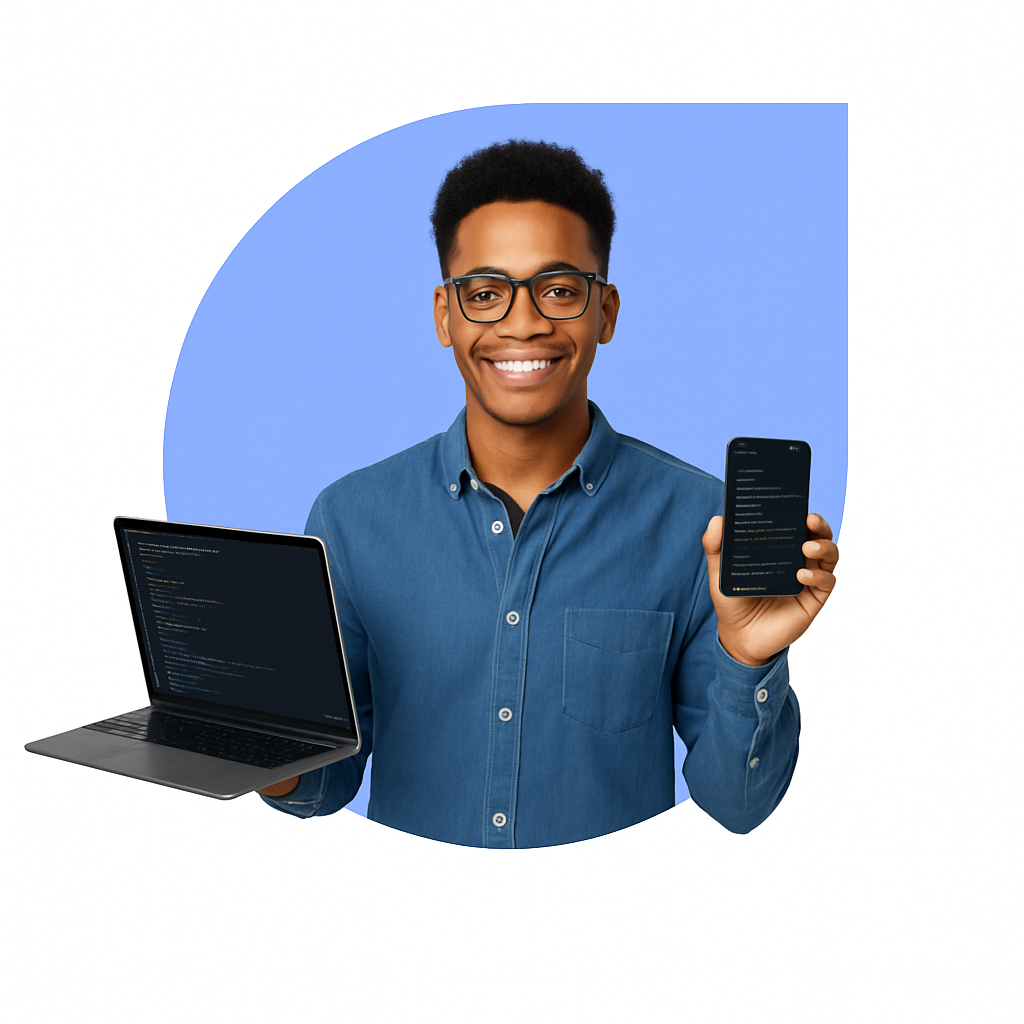
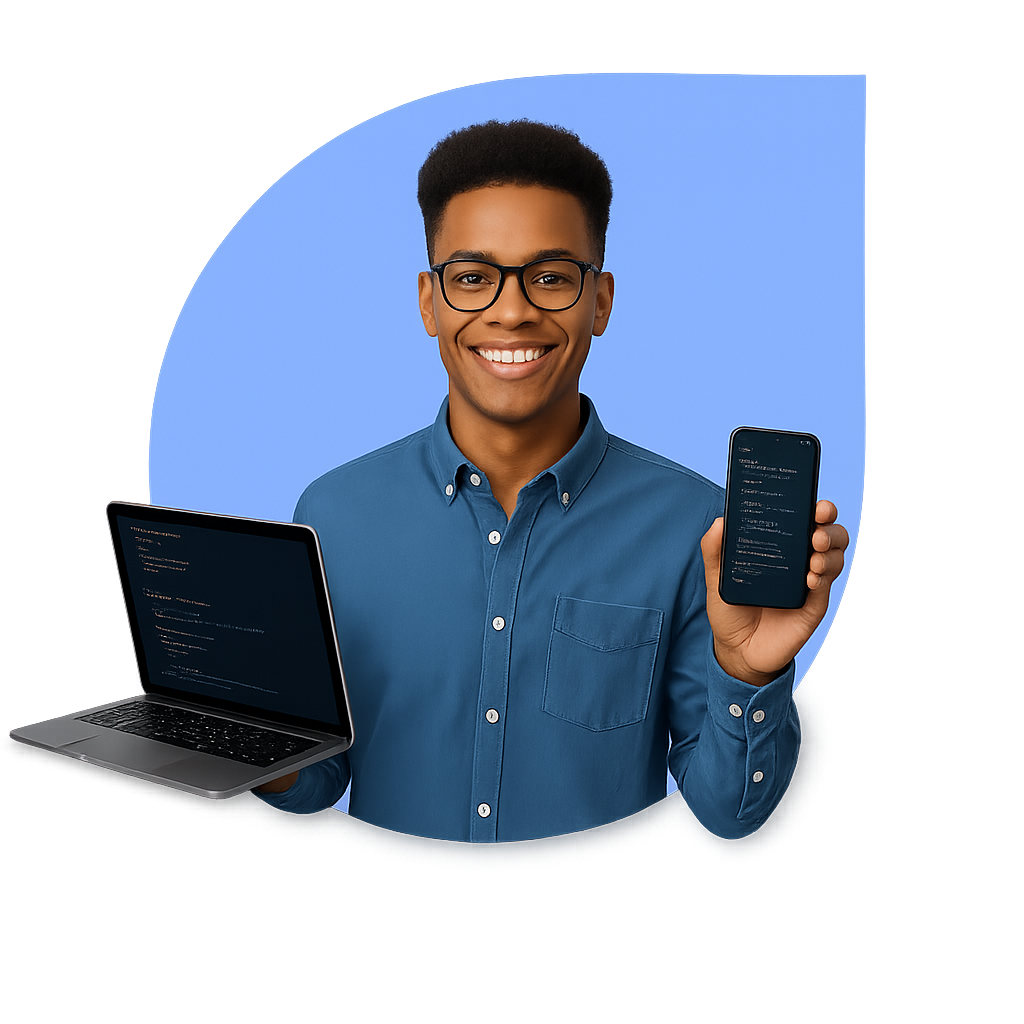
Added user page after signin and added user header

Changed region(s): [[0.0, 0.0625, 0.8438, 0.8438]]

diff --git a/src/components/UserLayout/Header/index.jsx b/src/components/UserLayout/Header/index.jsx
@@ -1,21 +1,17 @@
 import React, { useState, useRef, useEffect } from "react";
 import { Icon } from "@iconify/react";
 import { Link } from 'react-router-dom';
-import HeaderLink from './Navigation/HeaderLink';
+import HeaderLink from '../../Layout/Header/Navigation/HeaderLink';
 import { headerData } from "./Navigation/MenuData";
 import Logo from '../../Common/Logo'
-import Signin from "../../../pages/Auth/SignIn";
-import SignUp from "../../../pages/Auth/SignUp";
 
 const navItems = ["Home", "About Us", "Categories", "Courses"];
 
 const Header = () => {
   const [navbarOpen, setNavbarOpen] = useState(false);
   const mobileMenuRef = useRef(null);
-  const [isSignInOpen, setIsSignInOpen] = useState(false);
-  const signInRef = useRef(null);
-  const [isSignUpOpen, setIsSignUpOpen] = useState(false);
-  const signUpRef = useRef(null);
+  const [profileOpen, setProfileOpen] = useState(false);
+  const profileRef = useRef(null);
   const [sticky, setSticky] = useState(false);
 
   const handleClickOutside = (event) => {
@@ -25,7 +21,15 @@ const Header = () => {
     ) {
       setNavbarOpen(false);
     }
+  
+    if (
+      profileRef.current &&
+      !profileRef.current.contains(event.target)
+    ) {
+      setProfileOpen(false);
+    }
   };
+  
 
   const handleScroll = () => {
     setSticky(window.scrollY >= 20);
@@ -44,7 +48,7 @@ const Header = () => {
       window.removeEventListener("scroll", handleScroll);
       document.removeEventListener("mousedown", handleClickOutside);
     };
-  }, [navbarOpen, isSignInOpen, isSignUpOpen]);
+  }, [navbarOpen]);
 
   return (
     <header className={`fixed top-0 z-40 w-full transition-all duration-300 ${sticky ? " shadow-lg bg-white dark:bg-gray-600 py-4" : "shadow-none py-8"
@@ -70,63 +74,9 @@ const Header = () => {
               />
               +1(909) 235-9814
             </Link>
-            <button
-        className="hidden lg:block text-primaryPurple bg-lightPurple hover:text-white hover:bg-primaryPurple font-medium text-lg py-4 px-8 rounded-full"
-        onClick={() => setIsSignInOpen(true)}
-      >
-        Sign In
-      </button>
+ 
 
-      {isSignInOpen && (
-        <div className="fixed top-0 left-0 w-full h-full bg-black bg-opacity-50 flex items-center justify-center z-50">
-          <div
-            ref={signInRef}
-            className="relative mx-auto w-full max-w-md overflow-hidden rounded-lg px-8 pt-14 pb-8 text-center bg-white dark:bg-gray-600 bg-opacity-90 backdrop-blur-md"
-          >
-            <button
-              onClick={() => setIsSignInOpen(false)}
-              className="absolute top-0 right-0 mr-8 mt-8 dark:invert"
-              aria-label="Close Sign In Modal"
-            >
-              <Icon
-                icon="tabler:currency-xrp"
-                className="text-black hover:text-primary text-24 inline-block me-2"
-              />
-            </button>
-
-            <Signin setShowSignin={() => setIsSignInOpen(false)}/>
-          </div>
-        </div>
-      )}
-                <button
-        className="hidden lg:block bg-primaryPurple text-white hover:bg-lightPurple hover:text-primaryPurple font-medium text-lg py-4 px-8 rounded-full"
-        onClick={() => setIsSignUpOpen(true)}
-      >
-        Sign Up
-      </button>
-
-      {isSignUpOpen && (
-        <div className="fixed top-0 left-0 w-full h-full bg-black bg-opacity-50 flex items-center justify-center z-50">
-          <div
-            ref={signUpRef}
-            className="relative mx-auto w-full max-w-md overflow-hidden rounded-lg bg-dark_grey bg-opacity-90 backdrop-blur-md px-8 pt-14 pb-8 text-center"
-          >
-            <button
-              onClick={() => setIsSignUpOpen(false)}
-              className="absolute top-0 right-0 mr-8 mt-8 dark:invert"
-              aria-label="Close Sign Up Modal"
-            >
-              <Icon
-                icon="tabler:currency-xrp"
-                className="text-white hover:text-primary text-24 inline-block me-2"
-              />
-            </button>
-
-            <SignUp />
-          </div>
-        </div>
-      )}
-
+      
 
             {/* Mobile Menu Toggle */}
             <button
@@ -139,6 +89,41 @@ const Header = () => {
               <span className="block w-6 h-0.5 bg-black mt-1.5"></span>
             </button>
           </div>
+
+          <div className="relative" ref={profileRef}>
+  <button
+    onClick={() => setProfileOpen(!profileOpen)}
+    className="p-2 rounded-full hover:bg-gray-100 focus:outline-none focus:ring-2 focus:ring-primary"
+  >
+    <Icon icon="mdi:account-circle" className="text-3xl text-gray-700" />
+  </button>
+
+  {profileOpen && (
+    <div className="absolute right-0 mt-2 w-48 bg-white border border-gray-200 rounded-md shadow-lg z-50">
+      <Link
+        to="/edit-profile"
+        className="block px-4 py-2 text-sm text-gray-700 hover:bg-gray-100"
+      >
+        ✏ Edit Profile
+      </Link>
+      <Link
+        to="/settings"
+        className="block px-4 py-2 text-sm text-gray-700 hover:bg-gray-100"
+      >
+        ⚙ Settings
+      </Link>
+      <button
+        onClick={() => {
+          console.log("Sign out clicked");
+        }}
+        className="w-full text-left px-4 py-2 text-sm text-gray-700 hover:bg-red-100 hover:text-red-600"
+      >
+        🚪 Sign Out
+      </button>
+    </div>
+  )}
+</div>
+
         </div>
 
         {/* Mobile Nav */}
@@ -162,19 +147,7 @@ const Header = () => {
               >
                 {item}
               </span>
-            ))}
-            <button
-              className="w-full px-4 py-2 rounded-lg bg-lightPurple text-primaryPurple font-medium hover:bg-red-200 transition"
-              onClick={() => setNavbarOpen(false)}
-            >
-              Sign In
-            </button>
-            <button
-              className="w-full px-4 py-2 rounded-lg bg-primaryPurple text-white font-medium hover:bg-red-600 transition"
-              onClick={() => setNavbarOpen(false)}
-            >
-              Sign Up
-            </button>
+            ))}       
           </nav>
         </div>
 

diff --git a/src/pages/Auth/SignIn/index.jsx b/src/pages/Auth/SignIn/index.jsx
@@ -5,7 +5,7 @@ import SocialSignIn from "../SocialSignIn";
 import Logo from "../../../components/Common/Logo";
 import Loader from "../../../components/Common/Loader";
 
-const Signin = () => {
+const Signin = ({ setShowSignin }) => {
   const navigate = useNavigate();
 
   const [loginData, setLoginData] = useState({
@@ -18,34 +18,64 @@ const Signin = () => {
   const loginUser = async (e) => {
     e.preventDefault();
     setLoading(true);
-
-    // Example login API (replace this with your backend logic)
-    try {
-      const response = await fetch("/api/login", {
-        method: "POST",
-        headers: {
-          "Content-Type": "application/json",
-        },
-        body: JSON.stringify(loginData),
-      });
-
-      const result = await response.json();
-
-      if (!response.ok) {
-        toast.error(result.message || "Login failed");
-        setLoading(false);
-        return;
-      }
-
-      toast.success("Login successful");
+  
+    const { email, password } = loginData;
+  
+    const emailRegex = /^[^\s@]+@[^\s@]+\.[^\s@]+$/;
+    const passwordRegex =
+      /^(?=.*[A-Z])(?=.*\d)(?=.*[!@#$%^&*()_+\-=\[\]{};':"\\|,.<>\/?]).{8,}$/;
+  
+    if (!emailRegex.test(email)) {
+      toast.error("Invalid email format");
       setLoading(false);
-      navigate("/");
-    } catch (err) {
-      console.error(err.message);
-      toast.error("Something went wrong");
-      setLoading(false);
+      return;
     }
+  
+    if (!passwordRegex.test(password)) {
+      toast.error(
+        "Password must be at least 8 characters, include an uppercase letter, number, and special character"
+      );
+      setLoading(false);
+      return;
+    }
+  
+    // ✅ If API is not ready, navigate to user page with dummy ID
+    const dummyUserId = 1;
+    toast.success("Login successful (dummy)");
+    setLoading(false);
+    setShowSignin();
+    navigate(`/user/${dummyUserId}`);
+  
+    // // Uncomment this when real API is ready
+    // try {
+    //   const response = await fetch("/api/login", {
+    //     method: "POST",
+    //     headers: {
+    //       "Content-Type": "application/json",
+    //     },
+    //     body: JSON.stringify(loginData),
+    //   });
+  
+    //   const result = await response.json();
+  
+    //   if (!response.ok) {
+    //     toast.error(result.message || "Login failed");
+    //     setLoading(false);
+    //     return;
+    //   }
+  
+    //   toast.success("Login successful");
+    //   setLoading(false);
+    //   const userId = result.user?.id; // Assume backend returns user object
+    //   navigate(`/user/${userId}`);
+    // } catch (err) {
+    //   console.error(err.message);
+    //   toast.error("Something went wrong");
+    //   setLoading(false);
+    // }
   };
+  
+  
 
   return (
     <>
@@ -56,7 +86,7 @@ const Signin = () => {
       <SocialSignIn />
 
       <span className="z-1 relative my-8 block text-center before:content-[''] before:absolute before:h-px before:w-40% before:bg-dark_border before:bg-opacity-60 before:left-0 before:top-3 after:content-[''] after:absolute after:h-px after:w-40% after:bg-dark_border after:bg-opacity-60 after:top-3 after:right-0">
-        <span className="text-body-secondary relative z-10 inline-block px-3 text-base text-black dark:text-white">
+        <span className="text-body-secondary relative z-10 inline-block px-3 text-base text-black dark:text-black">
           OR
         </span>
       </span>
@@ -69,7 +99,7 @@ const Signin = () => {
             onChange={(e) =>
               setLoginData({ ...loginData, email: e.target.value })
             }
-            className="w-full rounded-md border border-dark_border border-opacity-60 border-solid bg-transparent px-5 py-3 text-base text-dark outline-none transition placeholder:text-grey focus:border-primary focus-visible:shadow-none text-white dark:focus:border-primary"
+            className="w-full rounded-md border border-dark_border border-opacity-60 border-solid bg-transparent px-5 py-3 text-base text-dark outline-none transition placeholder:text-grey focus:border-primary focus-visible:shadow-none text-black dark:focus:border-primary"
           />
         </div>
         <div className="mb-[22px]">
@@ -79,7 +109,7 @@ const Signin = () => {
             onChange={(e) =>
               setLoginData({ ...loginData, password: e.target.value })
             }
-            className="w-full rounded-md border border-dark_border border-opacity-60 border-solid bg-transparent px-5 py-3 text-base text-dark outline-none transition placeholder:text-grey focus:border-primary focus-visible:shadow-none text-white dark:focus:border-primary"
+            className="w-full rounded-md border border-dark_border border-opacity-60 border-solid bg-transparent px-5 py-3 text-base text-dark outline-none transition placeholder:text-grey focus:border-primary focus-visible:shadow-none text-black dark:focus:border-primary"
           />
         </div>
         <div className="mb-9">

diff --git a/src/App.jsx b/src/App.jsx
@@ -1,8 +1,9 @@
 // App.jsx
 import React from "react";
-import { Routes, Route } from "react-router-dom";
+import { Routes, Route, useLocation } from "react-router-dom";
 import Header from "./components/Layout/Header";
 import Footer from "./components/Layout/Footer";
+import UserHeader from "./components/UserLayout/Header";
 import ScrollToTop from "./components/Layout/ScrollToTop";
 
 // Import your page components
@@ -13,14 +14,28 @@ import Home from "./pages/Home";
 // import Login from "./pages/Login";
 // import Dashboard from "./pages/Dashboard";
 
+import UserPage from "./pages/User";
+
 function App() {
+  const location = useLocation();
+
+  // Define routes where Header/Footer should be hidden
+  const hideLayoutRoutes = ["/user"];
+
+  // Check if current route starts with any path in hideLayoutRoutes
+  const shouldHideHeaderFooter = hideLayoutRoutes.some((path) =>
+    location.pathname.startsWith(path)
+  );
   return (
     <div  style={{ fontFamily: '"Poppins", sans-serif' }}>
       
-        <Header />
+      {!shouldHideHeaderFooter && <Header />}
+      {shouldHideHeaderFooter && < UserHeader/>}
         <ScrollToTop />
         <Routes>
           <Route path="/" element={<Home />} />
+          <Route path="/user/:id" element={<UserPage />} />
+
           {/*
             Uncomment or add additional routes below:
             <Route path="/about" element={<About />} />

diff --git a/src/pages/User/index.jsx b/src/pages/User/index.jsx
@@ -1,0 +1,25 @@
+import React from "react";
+import { useParams } from "react-router-dom";
+
+const UserPage = () => {
+  const { id } = useParams(); // Get user ID from route
+
+  return (
+    <div className="min-h-screen bg-gray-100 flex items-center justify-center p-4">
+      <div className="bg-white rounded-xl shadow-lg p-8 max-w-md w-full">
+        <div className="text-center">
+          <div className="w-24 h-24 mx-auto rounded-full bg-gradient-to-br from-purple-500 to-indigo-500 flex items-center justify-center text-white text-3xl font-bold mb-4">
+            {id}
+          </div>
+          <h2 className="text-2xl font-semibold mb-1">User #{id}</h2>
+          <p className="text-gray-600 mb-4">Welcome to your profile page!</p>
+        </div>
+        <div className="border-t pt-4 mt-4 text-sm text-gray-500 text-center">
+          This is a sample user page.
+        </div>
+      </div>
+    </div>
+  );
+};
+
+export default UserPage;

diff --git a/src/components/UserLayout/Header/Navigation/MenuData.js b/src/components/UserLayout/Header/Navigation/MenuData.js
@@ -1,0 +1,7 @@
+export const headerData = [
+    { label: "Home", href: "#home-section" },
+    { label: "Favourites", href: "#cook-section" },
+    { label: "Resources", href: "#cook-section" },
+    { label: "My Courses", href: "#gallery-section" },
+  ];
+  
